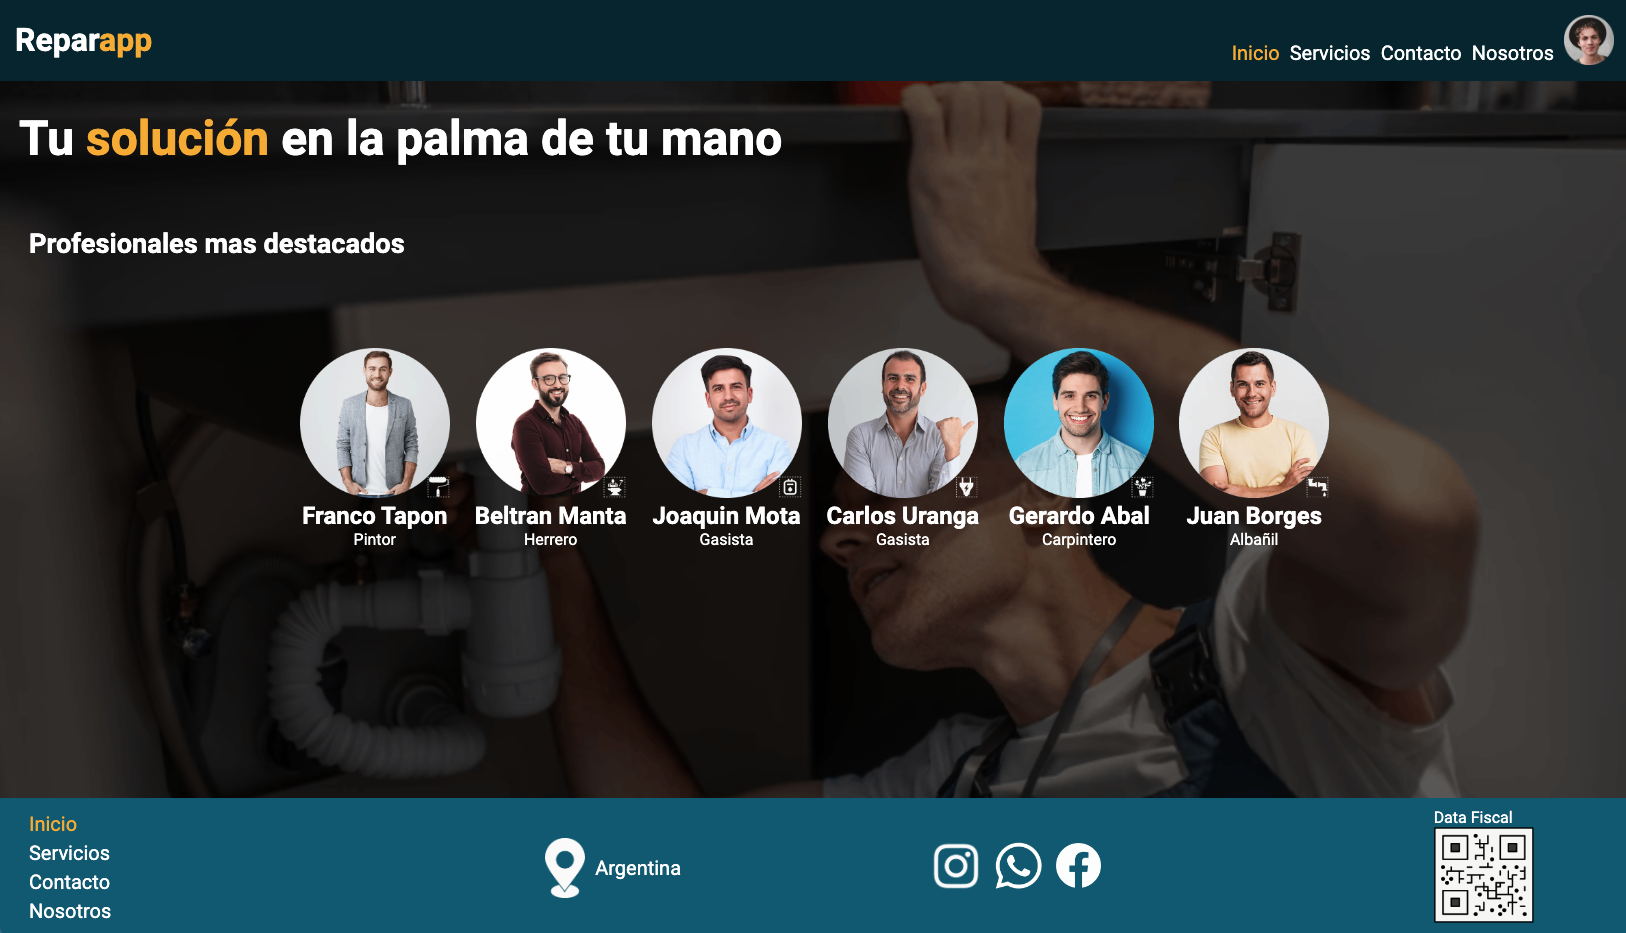
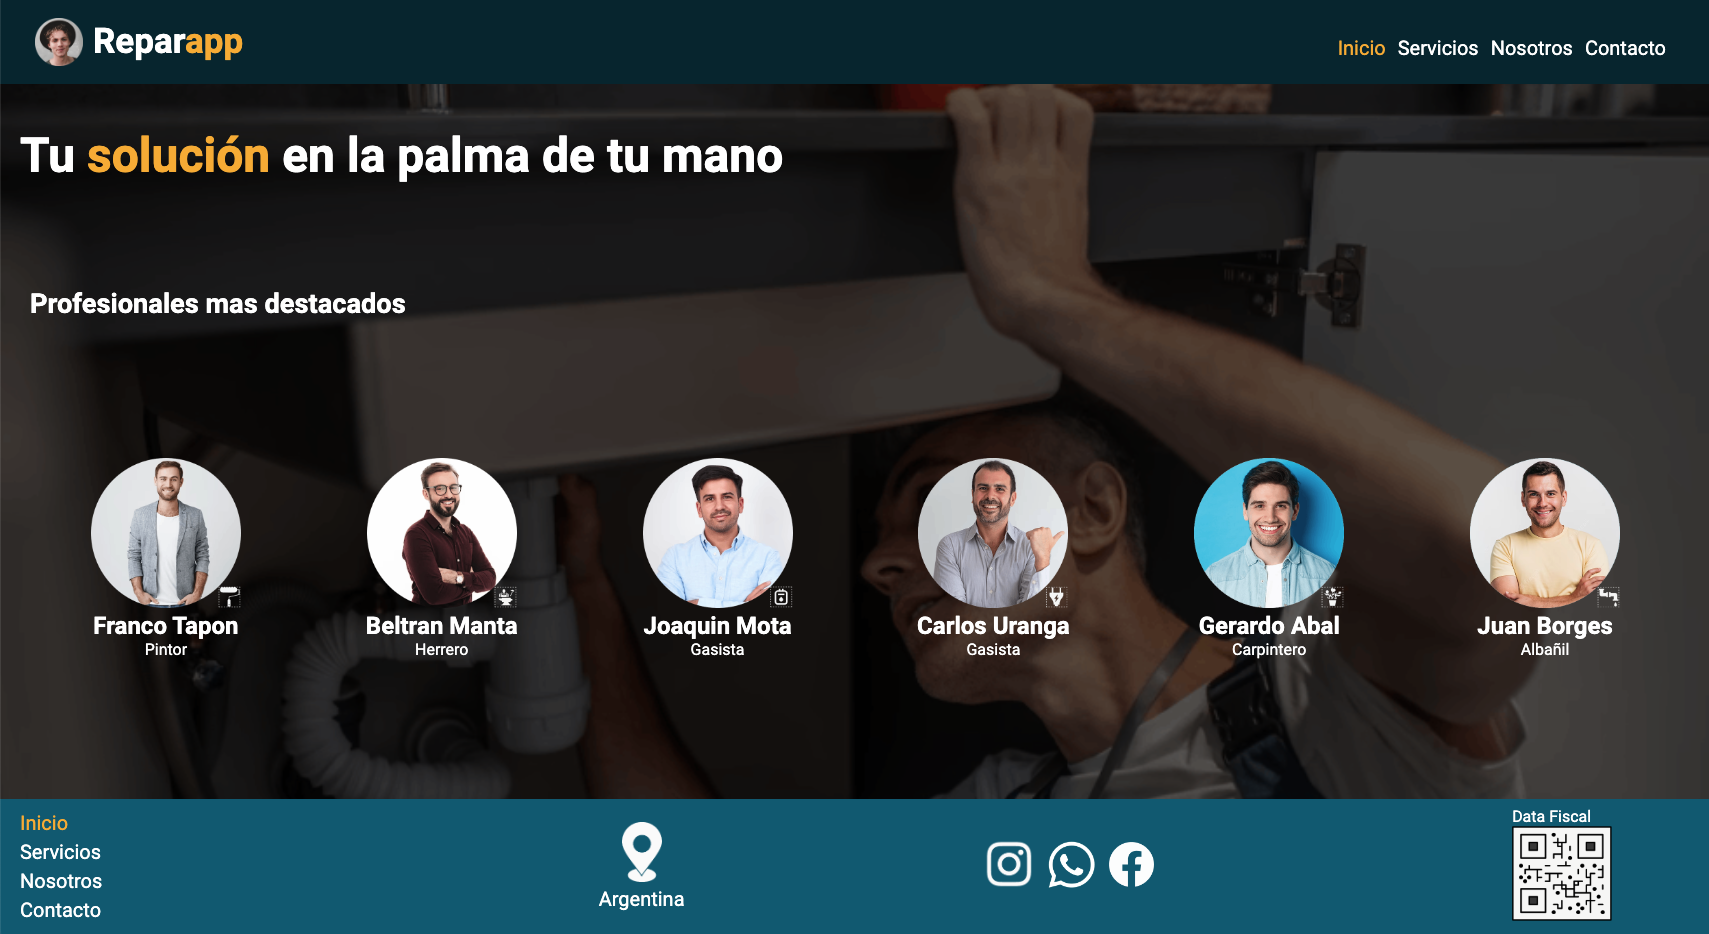
actualización de imagenes en el readme

diff --git a/README.md b/README.md
@@ -4,6 +4,9 @@
 
 <img src="./assets/img-readme.png">
 
+<img src="./assets/img-readme2.png">
+
+
 #### Tecnologías Usadas
 
 - Figma
